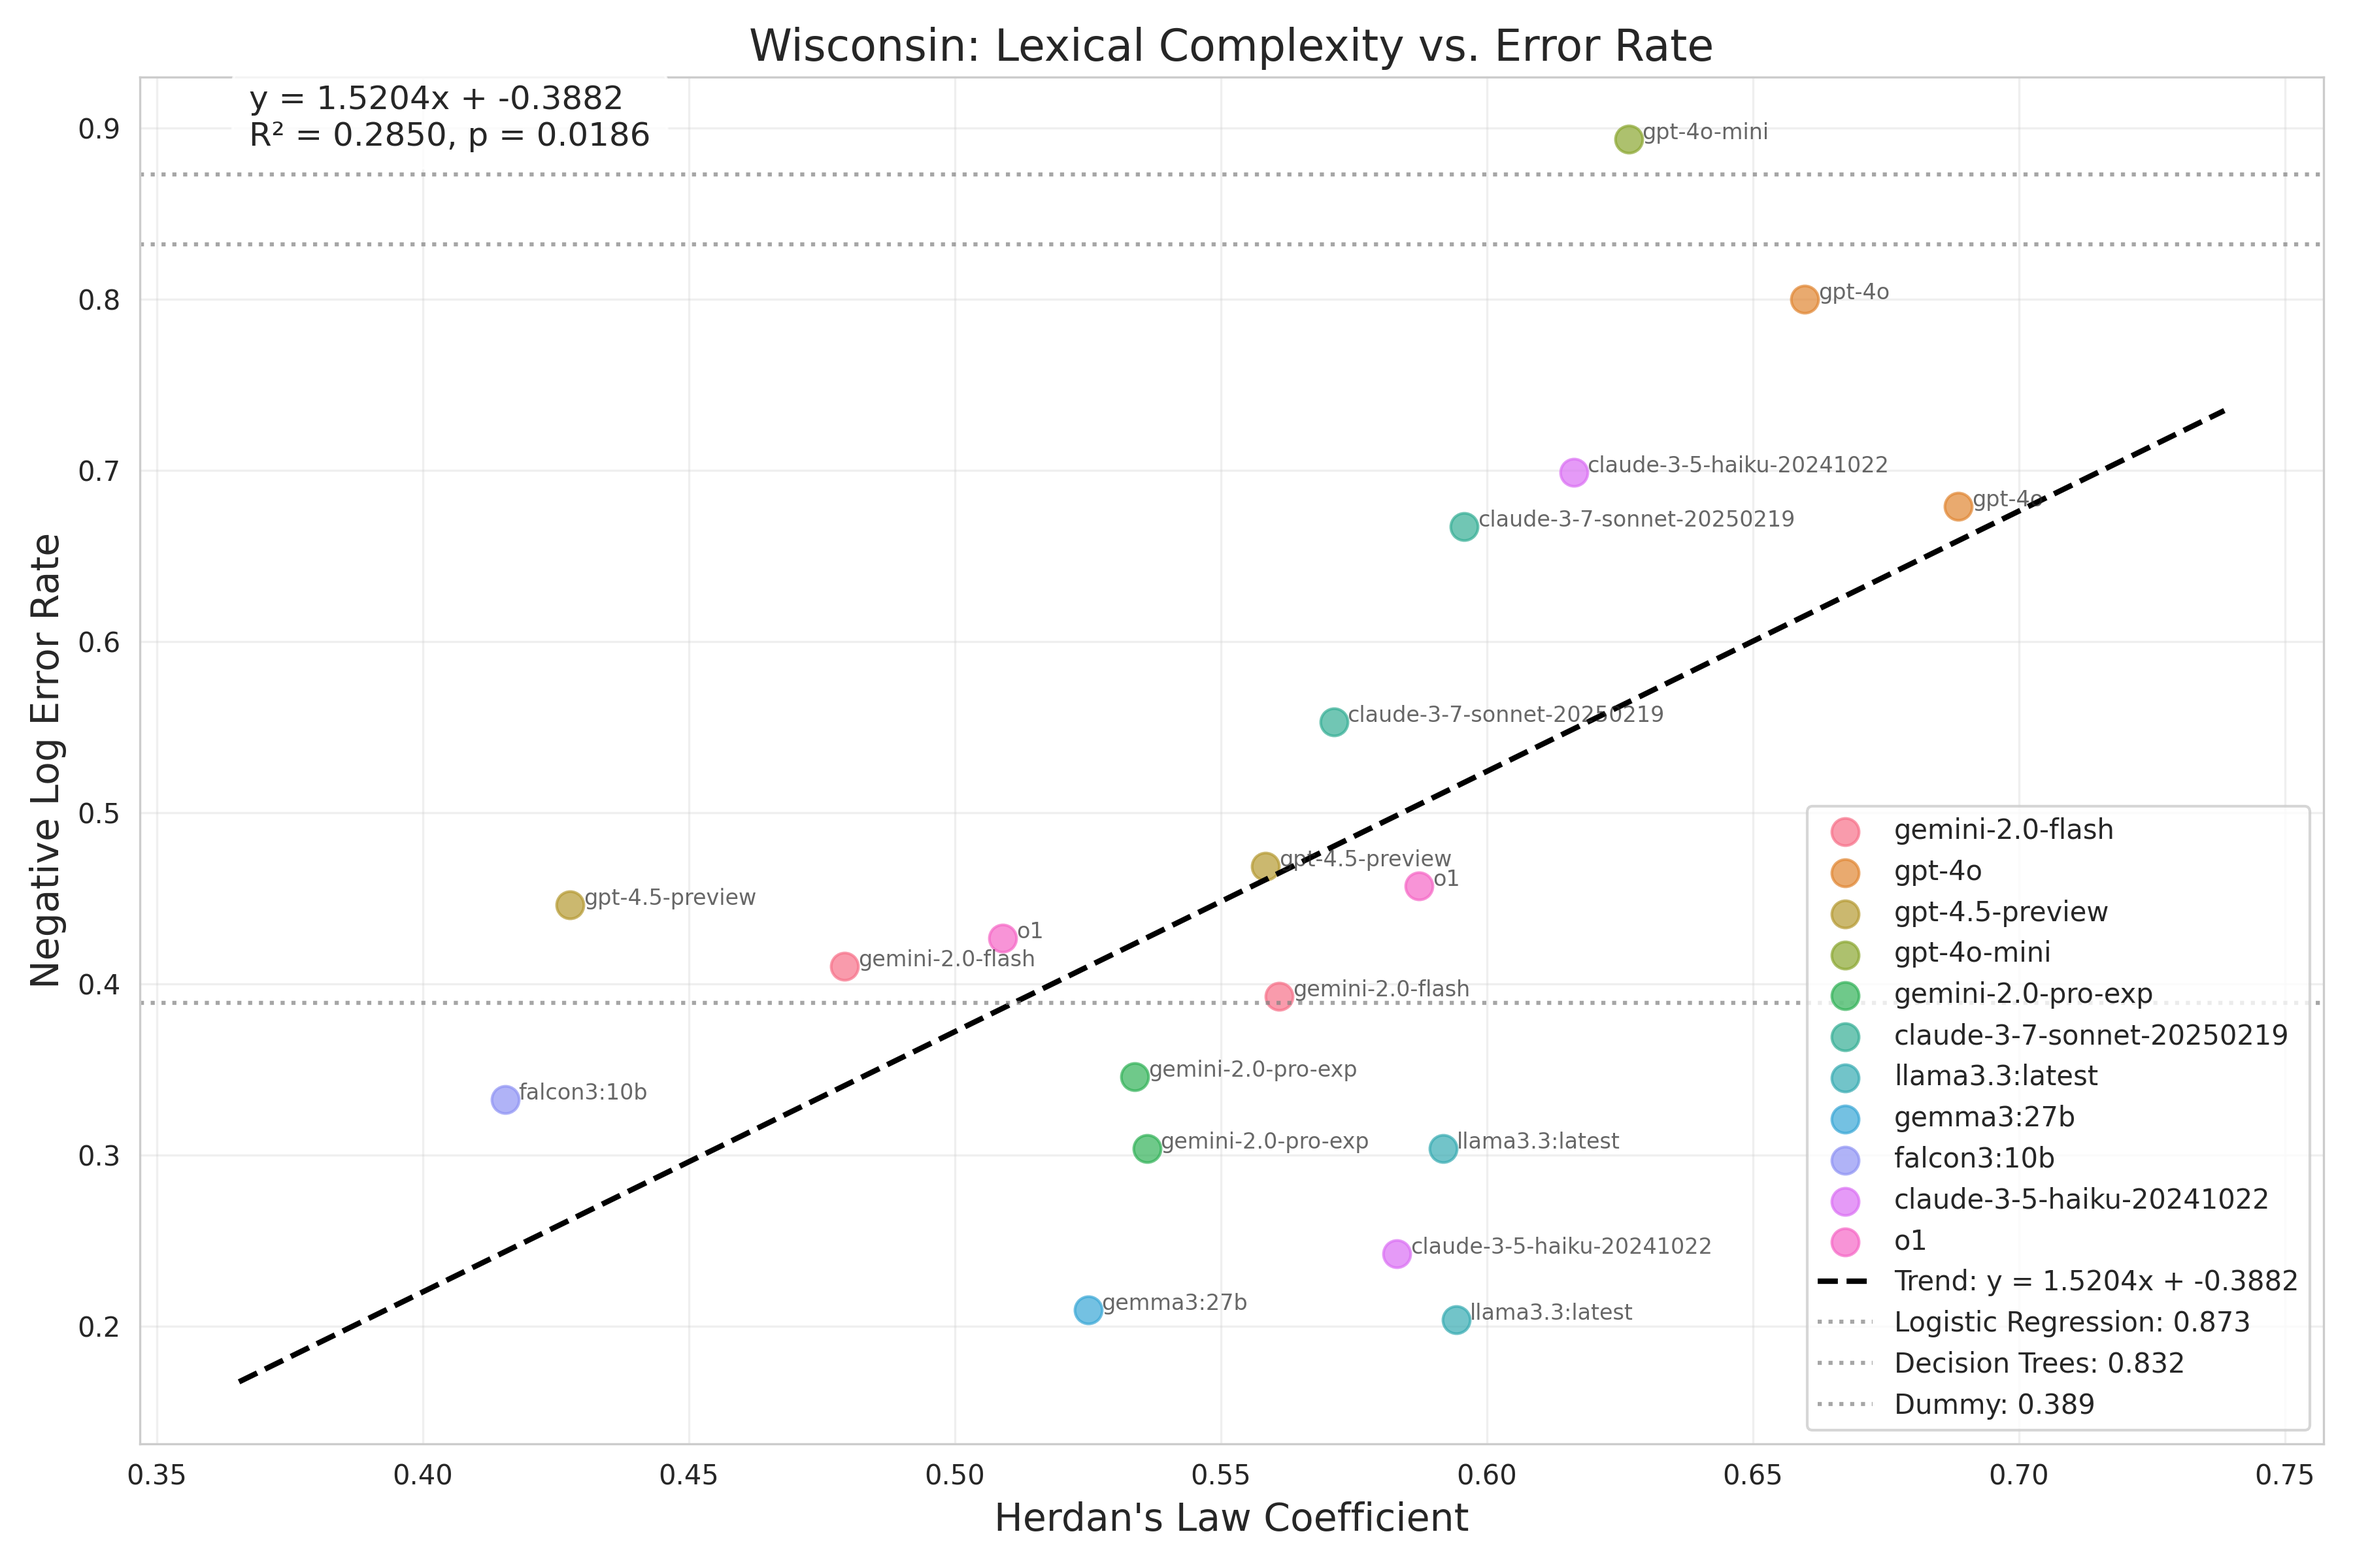
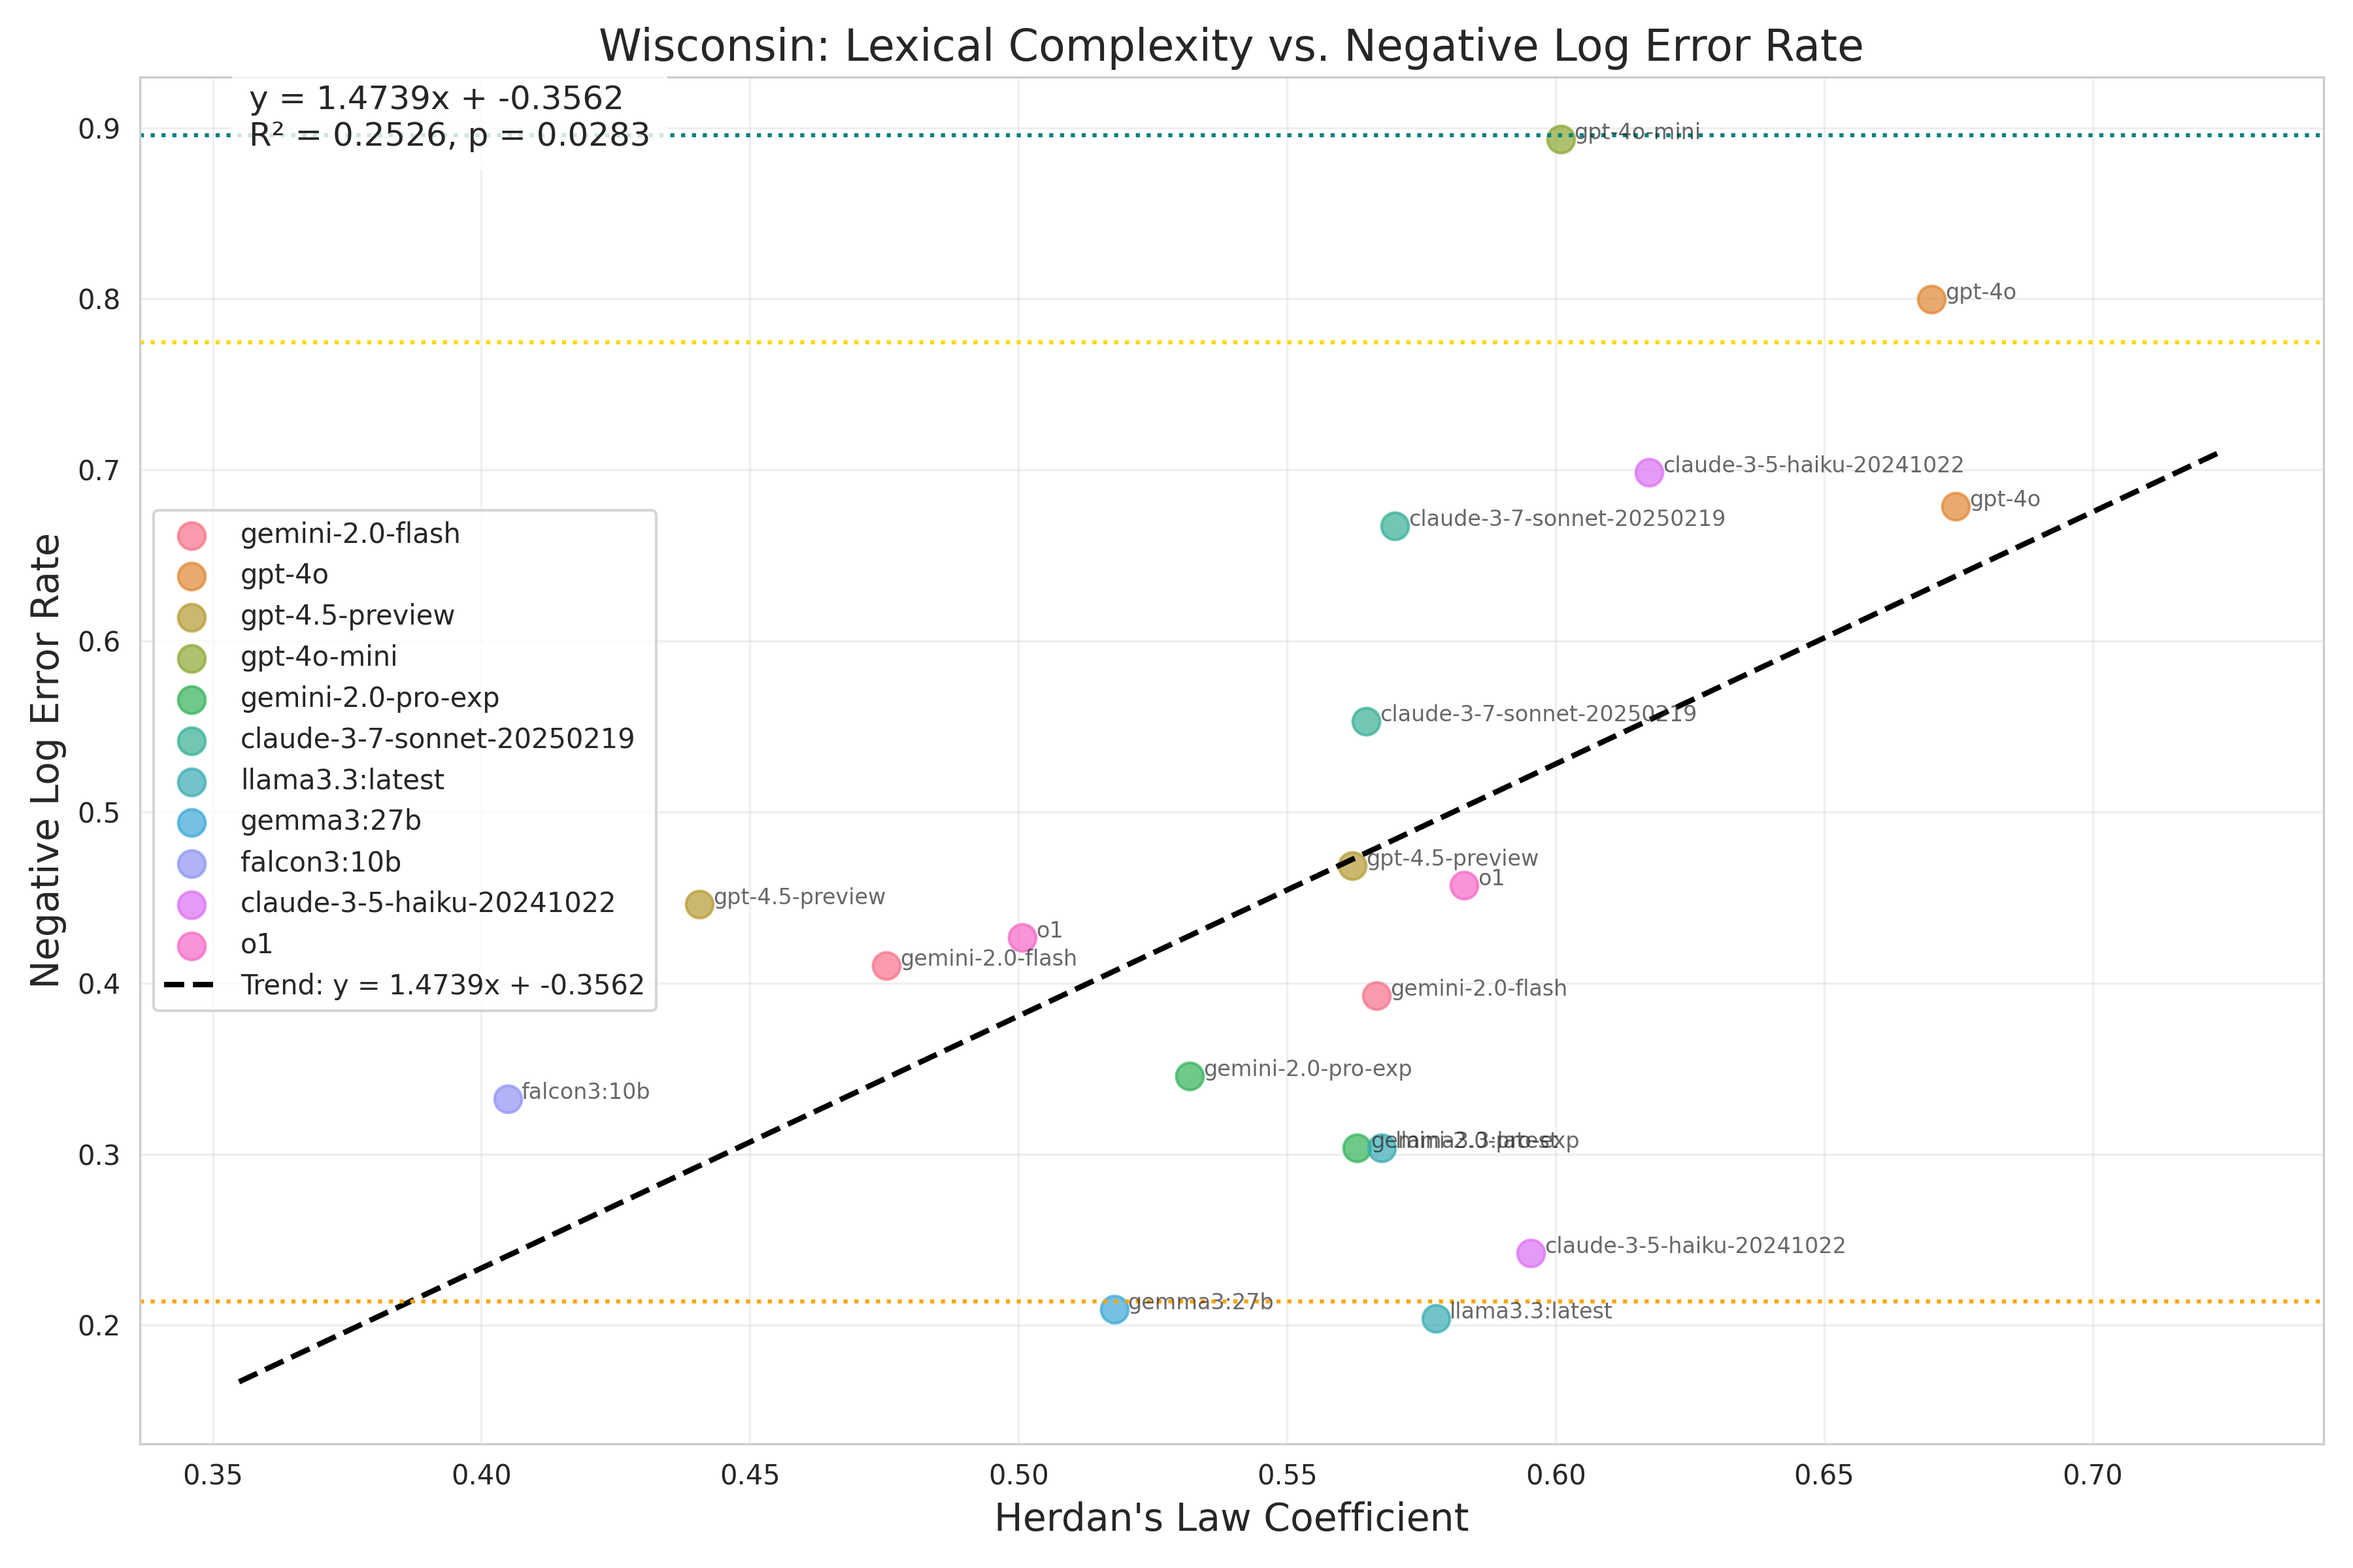
Latest experimental results

diff --git a/outputs/herdan-model-size-definitions.tex b/outputs/herdan-model-size-definitions.tex
@@ -1,3 +1,3 @@
-\newcommand{\herdansizetrend}{-0.023}
-\newcommand{\herdansizetrendpvalue}{0.058}
-\newcommand{\herdanaveragecorrelation}{0.50}
+\newcommand{\herdansizetrend}{-0.021}
+\newcommand{\herdansizetrendpvalue}{0.074}
+\newcommand{\herdanaveragecorrelation}{0.47}

diff --git a/outputs/southgermancredit_error_rate_by_herdan_slope.tex b/outputs/southgermancredit_error_rate_by_herdan_slope.tex
@@ -1,1 +1,1 @@
--0.175
+-0.179

diff --git a/outputs/southgermancredit_error_rate_by_herdan_pvalue.tex b/outputs/southgermancredit_error_rate_by_herdan_pvalue.tex
@@ -1,1 +1,1 @@
-0.444
+0.436

diff --git a/outputs/titanic_error_rate_by_herdan_pvalue.tex b/outputs/titanic_error_rate_by_herdan_pvalue.tex
@@ -1,1 +1,1 @@
-0.909
+0.549

diff --git a/outputs/titanic_error_rate_by_herdan_slope.tex b/outputs/titanic_error_rate_by_herdan_slope.tex
@@ -1,1 +1,1 @@
-0.043
+0.235

diff --git a/outputs/wisconsin_error_rate_by_herdan_pvalue.tex b/outputs/wisconsin_error_rate_by_herdan_pvalue.tex
@@ -1,1 +1,1 @@
-0.019
+0.028

diff --git a/outputs/wisconsin_error_rate_by_herdan_slope.tex b/outputs/wisconsin_error_rate_by_herdan_slope.tex
@@ -1,1 +1,1 @@
-1.520
+1.474
